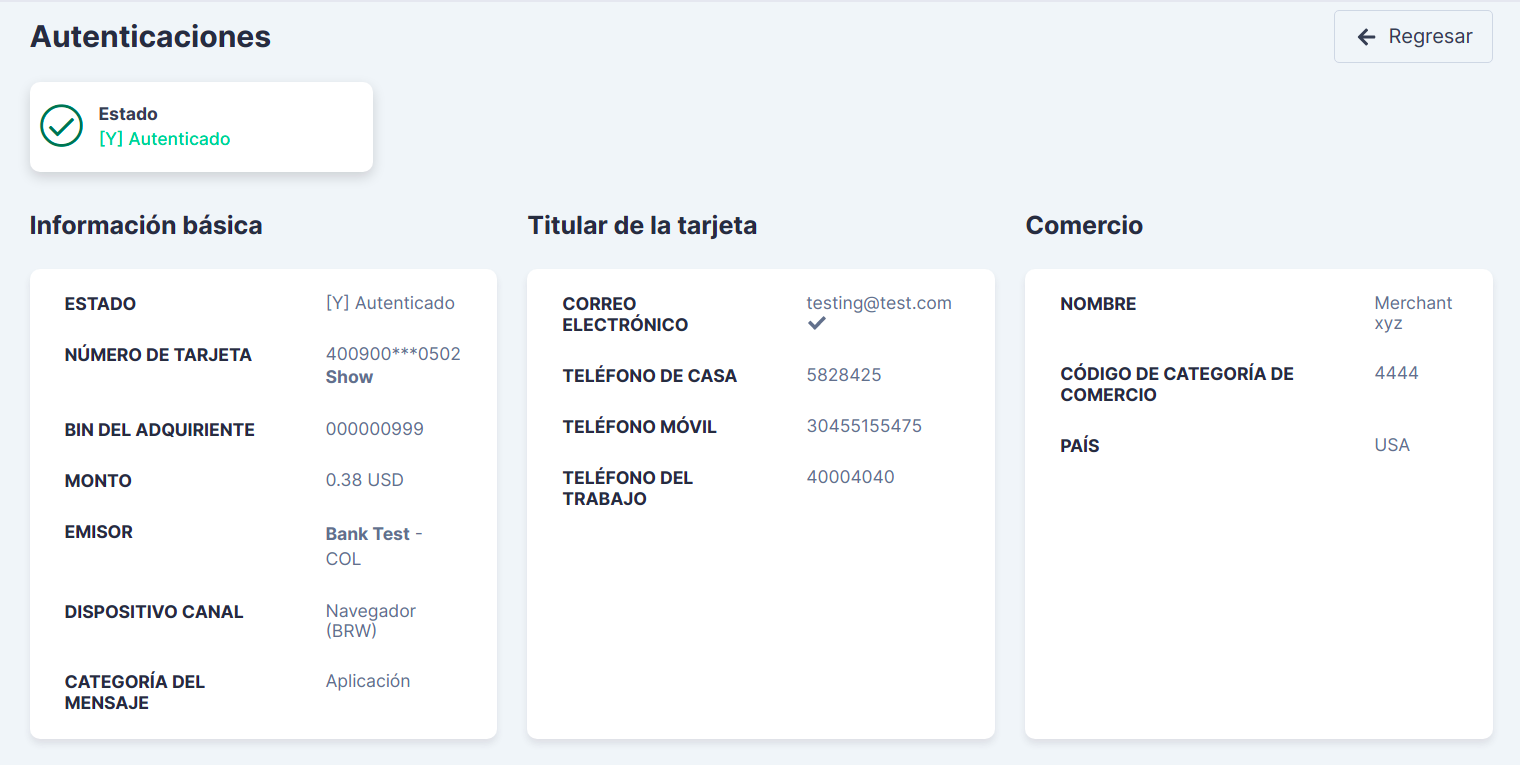
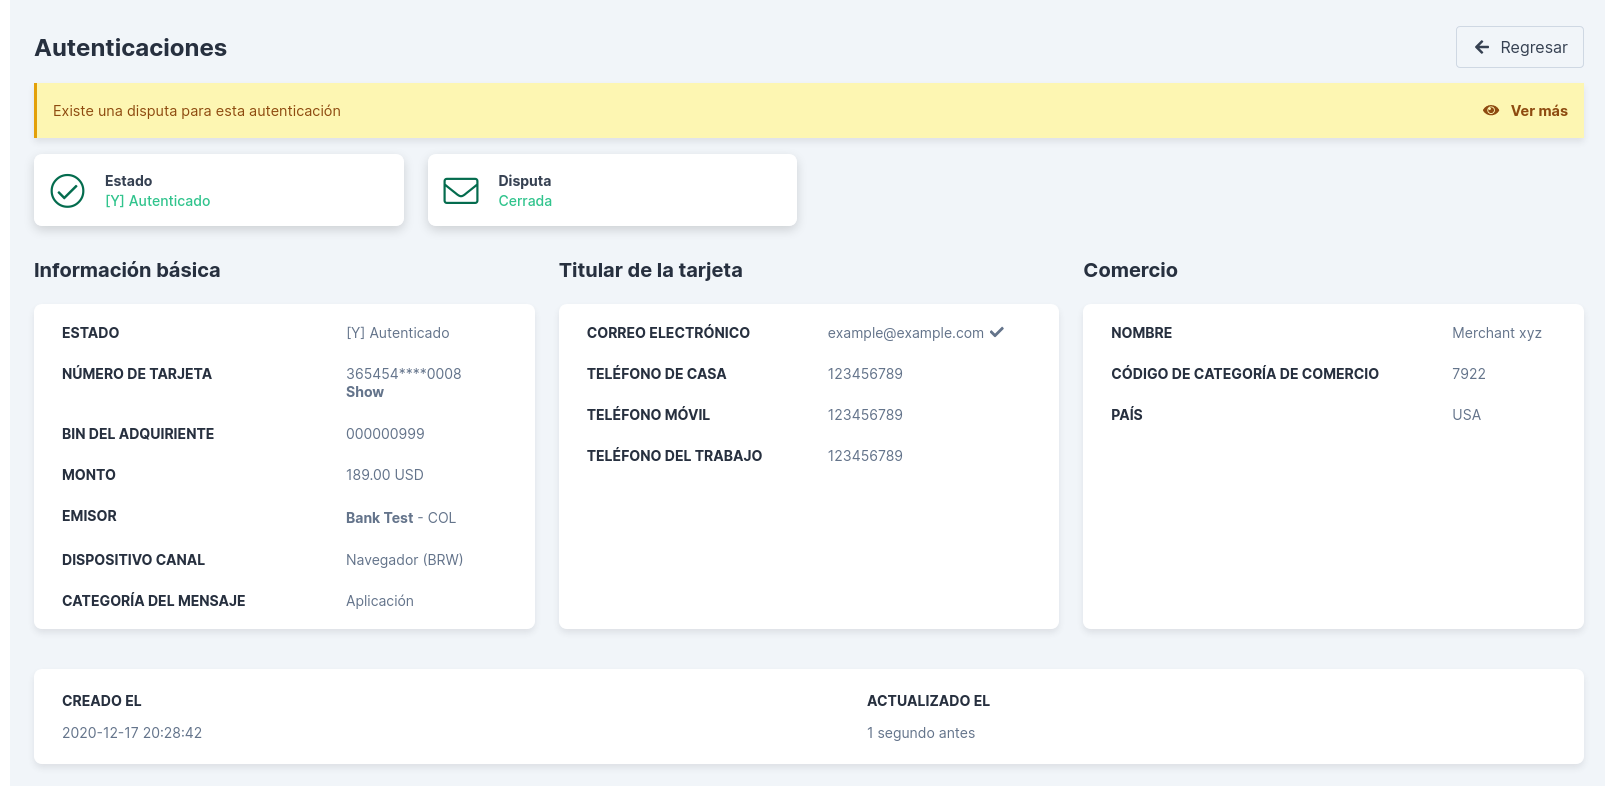
docs: Added information and images of disputes, invitations, roles, fraud lists and ACL

diff --git a/docs/ACSFunctionalities.md b/docs/ACSFunctionalities.md
@@ -41,11 +41,43 @@ Aquí además de los dos filtros básicos, se pueden agregar más datos de búsq
 - Estado de la transacción
 
 
-## Detalle de la transacción:
+## Detalle de la autenticación:
 
-En el detalle de la transacción, el cual se puede visualizar dando clic en el botón *Ver* de una transacción, se encuentra información esencial del proceso de autenticación, como el estado de la autenticación, la información básica de la transacción, la información del tarjetahabiente, del comercio, la ubicación en el mapa de dónde se generó la transacción, los datos de entrega y una línea de tiempo con los detalles de todo el proceso de autenticación y de la información captada por cada uno de los mensajes presentes en el proceso y correspondientes al protocolo 3-D Secure.
+En el detalle de la autenticación, el cual se puede visualizar dando clic en el botón *Ver* de una autenticación, se encuentra información esencial del proceso de autenticación, como el estado de la autenticación, la información básica de la transacción, la información del tarjetahabiente, del comercio, los datos de entrega y una línea de tiempo con los detalles de todo el proceso de autenticación y de la información captada por cada uno de los mensajes presentes en el proceso y correspondientes al protocolo 3-D Secure.
 
 ![](../assets/images/auth-details.png)
+
+### Calificación:
+
+Algunas autenticaciones cuentan con calificaciones que permiten darle un puntaje de seguridad. Este puntaje determina el nivel de riesgo de la transacción, teniendo en cuenta el historial de transacciones que poseen características similares.
+
+![](../assets/images/scores.png)
+
+### Información de entrega:
+
+Aquí se visualiza la información relacionada con la ubicación en la cual se va a entregar el bien o servicio adquirido con la transacción. También, se puede visualizar un mapa con la ubicación.
+
+![](../assets/images/delivery-data.png)
+
+### Disputas:
+
+Las disputas son reclamaciones que realiza el cliente registrado con una autenticación en ACS, en la cual puede existir un caso de fraude. 
+
+Para crear una disputa, al inicio de la vista del detalle de la autenticación, haga clic en el botón *Generar nueva disputa*, posterior a esto se agregará a la autenticación un caso de disputa abierta, el detalle de la disputa se puede visualizar en el detalle de la autenticación:
+
+![](../assets/images/dispute.png)
+
+En el detalle se puede desplegar el historial de la disputa con su respectivo estado. También, haciendo clic en el botón *Anular*, se despliega una ventana para que ingrese el motivo de la anulación de la disputa. Por el contrario, al dar clic en el botón *Resolver*, se presentará un formulario como el siguiente, en el cual debe registrar los motivos para la resolución de la disputa.
+
+![](../assets/images/resolve-dispute.png)
+
+Diligencie el formulario teniendo en cuenta los siguientes datos:
+
+- **Agente responsable:** Hace referencia al agente responsable de la causa que originó la disputa.
+
+- **Resultado de disputa:** Este resultado se basa en la respuesta que ofrecen las instituciones encargadas de evaluar la disputa. Si el resultado dado no registra en la lista de opciones, debe elegir la opción *Otro* y describir el resultado al que se refiere.
+
+- **Acción:** Aquí se debe seleccionar el agente que se va a hacer cargo de los resultados de la disputa.
 
 ### Traza de la autenticación:
 
@@ -58,6 +90,27 @@ Este es un ejemplo de una traza de una autenticación exitosa:
 Además, cada paso tiene la opción *Ver más*, la cual muestra la estructura de la petición o la respuesta con sus respectivos datos. Un ejemplo de este detalle es el siguiente:
 
 ![](../assets/images/trace-detail.png)
+
+<!--
+type: tab
+title: Disputas
+-->
+
+# Disputas
+
+En esta sección se registran y listan las disputas que se procesaron para deversas autenticaciones. Aquí se pueden visualizar los detalles y descargar las disputas como un PDF.
+
+![](../assets/images/disputes-index.png)
+
+### Reporte de disputas:
+
+El archivo PDF generado para una disputa contiene el estado y el historial de la disputa, información básica de esta, información del tarjetahabiente, las trazas o pasos de la autenticación con sus respectivas peticiones y respuestas.
+
+### Filtros:
+
+Este módulo contiene también filtros que permitirán hacer búsquedas de disputas específicas, filtrando por agentes, acciones, identificadores de transacción, entre otros.
+
+![](../assets/images/disputes-filters.png)
 
 
 <!--
@@ -106,7 +159,9 @@ Esta métrica muestra en una gráfica el monto de las transacciones procesadas p
 
 ## Métricas por estado de transacción
 
-Esta métrica muestra en una gráfica la cantidad de transacciones procesadas por el ACS, filtradas por un rango de fechas y diferenciadas por el estatus obtenido en la autenticación.
+Esta métrica muestra en una gráfica la cantidad de transacciones procesadas por el ACS, filtradas por un rango de fechas y diferenciadas por el estatus obtenido en la autenticación. Un ejemplo de métrica se presenta a continuación:
+
+![](../assets/images/metric.png)
 
 <!--
 type: tab
@@ -218,9 +273,39 @@ title: Motor Antifraude
 
 # Motor de Control de Fraude
 
-La principal funcionabilidad de ACS es el motor de control antifraude, este permite validar la información que se recibe en la petición de autenticación, a través de un conjunto de reglas que se procesan mediante grupos específicos creados para validar las autenticaciones de cada emisor registrado.
+La principal funcionabilidad de ACS es el motor de control antifraude, este permite validar la información que se recibe en la petición de autenticación, a través de un conjunto de reglas que validan las autenticaciones de cada emisor registrado.
 
 Esta funcionabilidad se gestiona desde la sección de Emisores de la aplicación.
+
+### Listas de control de fraude:
+
+Las listas de control de fraude son el primer filtro que puede validar una autenticación. Estas listas son temporales y se dividen en dos clases:
+
+- **Permisivas:** Estas listas van a crear un filtro que va a permitir que las autenticaciones que cumplan con los valores registrados en estas, puedan eximirse de la ejecución de los grupos de reglas y continúe con el proceso de autenticación.
+
+- **Restrictivas:** Por el contrario, este tipo de listas, al evaluar que los datos de la autenticación coinciden con los datos de la lista, enviará las autenticaciones directamente a evaluar los grupos de reglas.
+
+> Las listas de control antifraude se ejecutan antes de los grupos de control antifraude y según los resultados que obtenga de sus validaciones, puede evitar que una autenticación tenga que pasar por las validaciones de los grupos de reglas.
+
+![](../assets/images/fraud-list-index.png)
+
+Para crear una lista de control se direccionará a un formulario como este:
+
+![](../assets/images/create-fraud-list.png)
+
+Se solicitará:
+
+- **Fecha de inicio:** Fecha en la que se va a iniciar la validación de la lista de reglas.
+
+- **Fecha de finalización:** Fecha en la que se va a finalizar la validación de la lista de reglas.
+
+- **Tipo de lista:** ACS dispone de dos tipos de listas:
+    - PERMISSIVE
+    - RESTRICTIVE
+
+- **Tipo de valor:** Aquí se selecciona el parámetro por el cual se van a hacer los filtros de las autenticaciones. 
+
+- **Valor:** Corresponde al valor del tipo de parámetro seleccionado en el campo anterior. Con este valor se procede a hacer las validaciones y a verificar la coincidencia del dato con los recibidos en la autenticación.
 
 ### Grupos de control antifraude:
 
@@ -288,26 +373,6 @@ Al crear una regla se le define un tipo de acción específica que va a ejecutar
 - **Ninguno:** Las reglas con esta acción, tomarán la acción por defecto y generarán un estatus N (No autenticado).
 
 > La función de ejecutar un grupo de reglas permitirá hacer validaciones no secuenciales entre los diferentes grupos registrados para un emisor.
-
-### Listas de control de fraude:
-
-Las listas de control de fraude
-
-![](../assets/images/fraud-list-index.png)
-
-Para crear una lista de control se direccionará a un formulario como este:
-
-![](../assets/images/create-fraud-list.png)
-
-Se solicitará:
-
-- **Fecha de inicio:**
-- **Fecha de finalización:**
-- **Tipo de lista:** ACS dispone de dos tipos de listas:
-    - PERMISSIVE
-    - RESTRICTIVE
-- **Tipo de valor:**
-- **Valor:**    
 
 <!--
 type: tab
@@ -393,6 +458,53 @@ En la siguientes imagen se puede visualizar un ejemplo de creación de franquici
 
 ![](../assets/images/create-franchise.png)
 
+<!--
+type: tab
+title: Invitaciones
+-->
+
+# Invitaciones de usuarios
+
+En este módulo se gestionan las invitaciones que realiza un usuario registrado en ACS a otro usuario que desea utilizar la aplicación.
+
+Es a través de una invitación que se pueden crear nuevos usuarios, esta se envía a un correo y allí redirecciona al usuario al inicio de sesión gestionado por la aplicación de Accounts, creada en PlacetoPay, en esta redirección el usuario podrá registrarse y acceder.
+
+> Los datos que registre deben ser los mismos que se utilizaron para enviar la invitación.
+
+Para crear una invitación, haga clic en el botón *Crear* del módulo de invitaciones, visualizará un formulario como el siguiente:
+
+![](../assets/images/create-invitation.png)
+
+Datos a diligenciar:
+
+- **Nombre:** Corresponde al nombre que va a identificar al nuevo usuario.
+
+- **Correo electrónico:** Debe ser un correo válido porque allí es dónde se enviará la invitación.
+
+- **Perfil:** Seleccione el perfil que desea otorgarle al nuevo usuario.
+
+<!--
+type: tab
+title: Monedas
+-->
+
+# Monedas utilizadas en ACS
+
+En esta sección se visualizan las monedas creadas para utilizarse en ACS, pueden visualizarse los detalles, editar,habilitar o deshabilitar según las necesidades y requerimientos del cliente.
+
+Para crear una nueva moneda, debe diligenciar un formulario similar al siguiente:
+
+![](../assets/images/create-currency.png)
+
+Datos a diligenciar:
+
+- **Nombre:** Nombre por el cual se reconoce a la divisa que va a crear.
+
+- **Código alfabético:** Para este campo debe buscar el código alfabético correspondiente a la moneda que va a crear. El código debe ser el establecido por el estándar internacional ISO. Este contiene tres carácteres.
+
+- **Código numérico:** Para este campo debe buscar el código numérico correspondiente a la moneda que va a crear. El código debe ser el establecido por el estándar internacional ISO y consta de tres dígitos.
+
+- **Unidad menor:** Ingrese un número que indique la menor denominación o el menor valor que puede tener la moneda que está creando.
 
 <!--
 type: tab
@@ -490,7 +602,7 @@ title: Roles
 
 # Roles
 
-Aquí se gestionan los roles de usuario de la aplicación. Inicialmente se tiene una vista con la lista de roles creados, los cuales se pueden ver, editar y eliminar. Ademáss se pueden crear nuevos roles diligenciando un nombre y opcionalmente una descripción para el mismo.
+Aquí se gestionan los roles de usuario de la aplicación. Inicialmente se tiene una vista con la lista de roles creados, los cuales se pueden ver, editar y eliminar. Además, se pueden crear nuevos roles diligenciando un nombre y opcionalmente una descripción para el mismo.
 
 ![](../assets/images/roles-index.png)
 
@@ -500,8 +612,16 @@ Al dar clic en la opción *Ver* de un rol, se presentarán los detalles del rol 
 
 ![](../assets/images/permissions.png)
 
-Aquí puede buscar permisos referentes a diversas funcionabilidades de ACS, seleccionarlos, denegarlos y concederlos. Estos permisos determinan a qué funcionabilidades y acciones tiene acceso el rol específico.
+Aquí puede buscar permisos referentes a diversas funcionabilidades de ACS, seleccionarlos, denegarlos y concederlos. Estos permisos determinan las funcionabilidades y acciones a las cuales tiene acceso el rol.
 
+### Roles ancestros:
+
+Aquí registran los roles que están utilizando el rol actual. Esto puede darse cuando se le concede un rol a otro rol en el menú de *Permisos*.
+
+<!--
+type: tab
+title: Perfiles
+-->
 
 # Perfiles
 
@@ -514,9 +634,41 @@ Para crear un nuevo perfil se solicitará:
 - Nombre para el perfil.
 - Descripción (opcional).
 - Rol, debe seleccionar el rol que se asociará al perfil.
-- Compartido, puede habilitar o deshabilitar esta opción.
+- Compartido, puede habilitar o deshabilitar esta opción. Un perfil compartido se da cuando el perfil está siendo utilizado por otros roles.
 
 ![](../assets/images/profile-create.png)
+
+### ACL:
+
+El ACL (Access Control List), es un módulo de gestión de permisos y reglas desarrollado en PlacetoPay y utilizado por ACS. Este se encarga de gestionar los permisos y accesos de los diferentes roles y perfiles creados en ACS. 
+
+Estos permisos y reglas de acceso, se diferencian de los permisos básicos registrados en los roles, en que estos son más específicos y ofrecen una capa de seguridad extra a los datos manejados en la aplicación, ya que estos permisos permiten que se visualice la información que corresponde solo a un cliente en específico y que no se filtre otra información que pertenece a otros clientes u organizaciones.
+
+La lista de reglas se puede visualizar en el detalle de un perfil, en una vista similar a la siguiente:
+
+![](../assets/images/acl-list.png)
+
+### Crear reglas ACL:
+
+Para crear una regla ACL, haga clic en el botón *Crear*, se presentará un formulario como el siguiente:
+
+![](../assets/images/acl-create.png)
+
+#### Información general:
+
+Las reglas tienen dos opciones disponibles:
+- Permitir accesos
+- Denegar accesos
+
+En el campo entidad, debe seleccionar el la entidad que gestional el módulo al cual quiere aplicarle las condiciones que va a crear.
+
+#### Condicionales:
+
+- Atributo: Seleccione el campo correspondiente a la entidad seleccionada previamente y al cual desea validar.
+
+- Operador: Permite hacer las comparaciones de los datos.
+
+- Valor: Ingrese uno o varios valores que debería contener el atributo seleccionado.
 
 <!--
 type: tab
